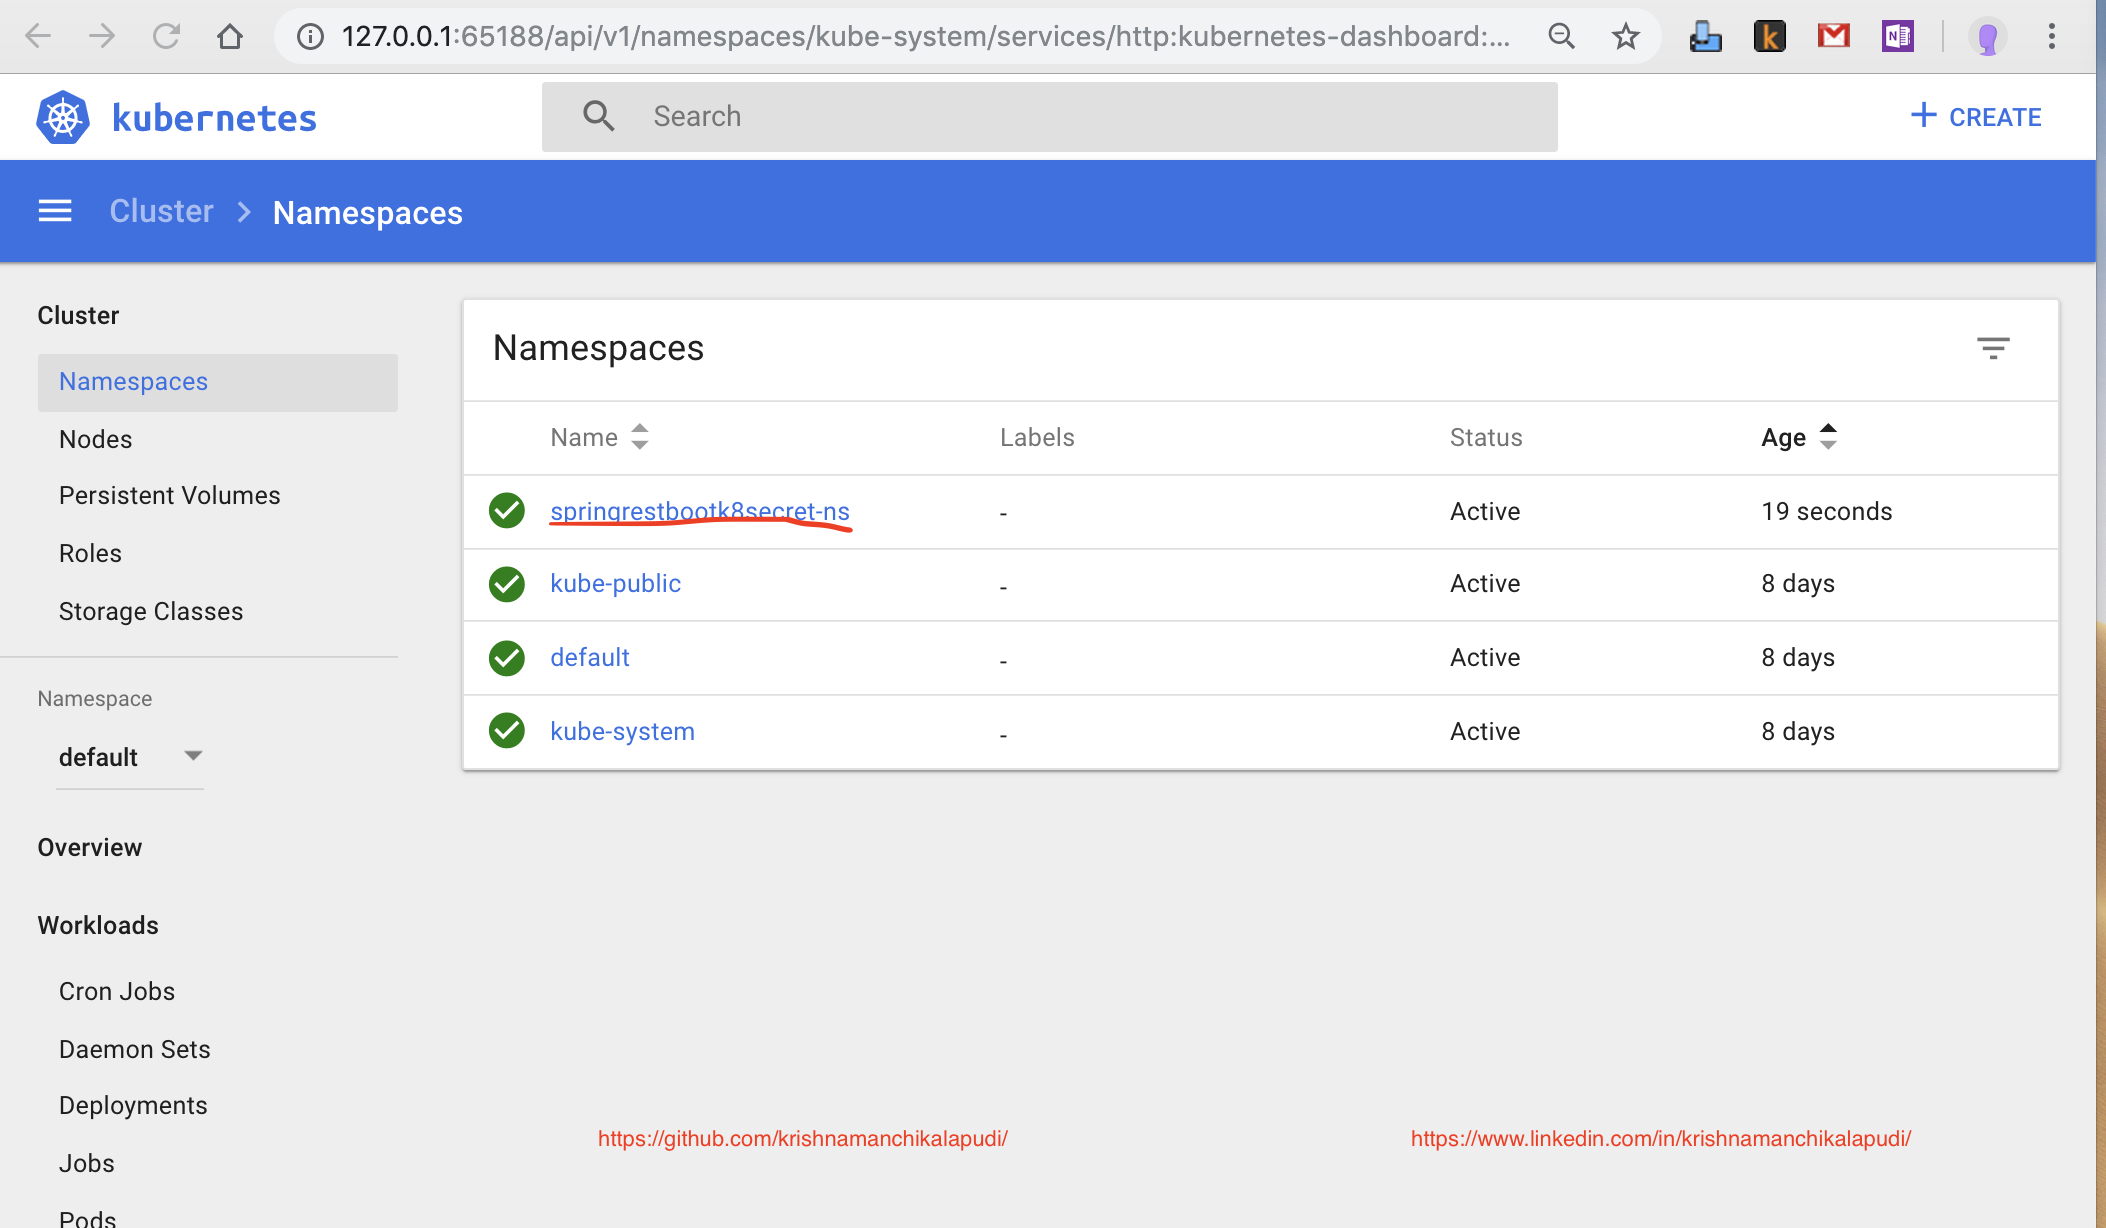
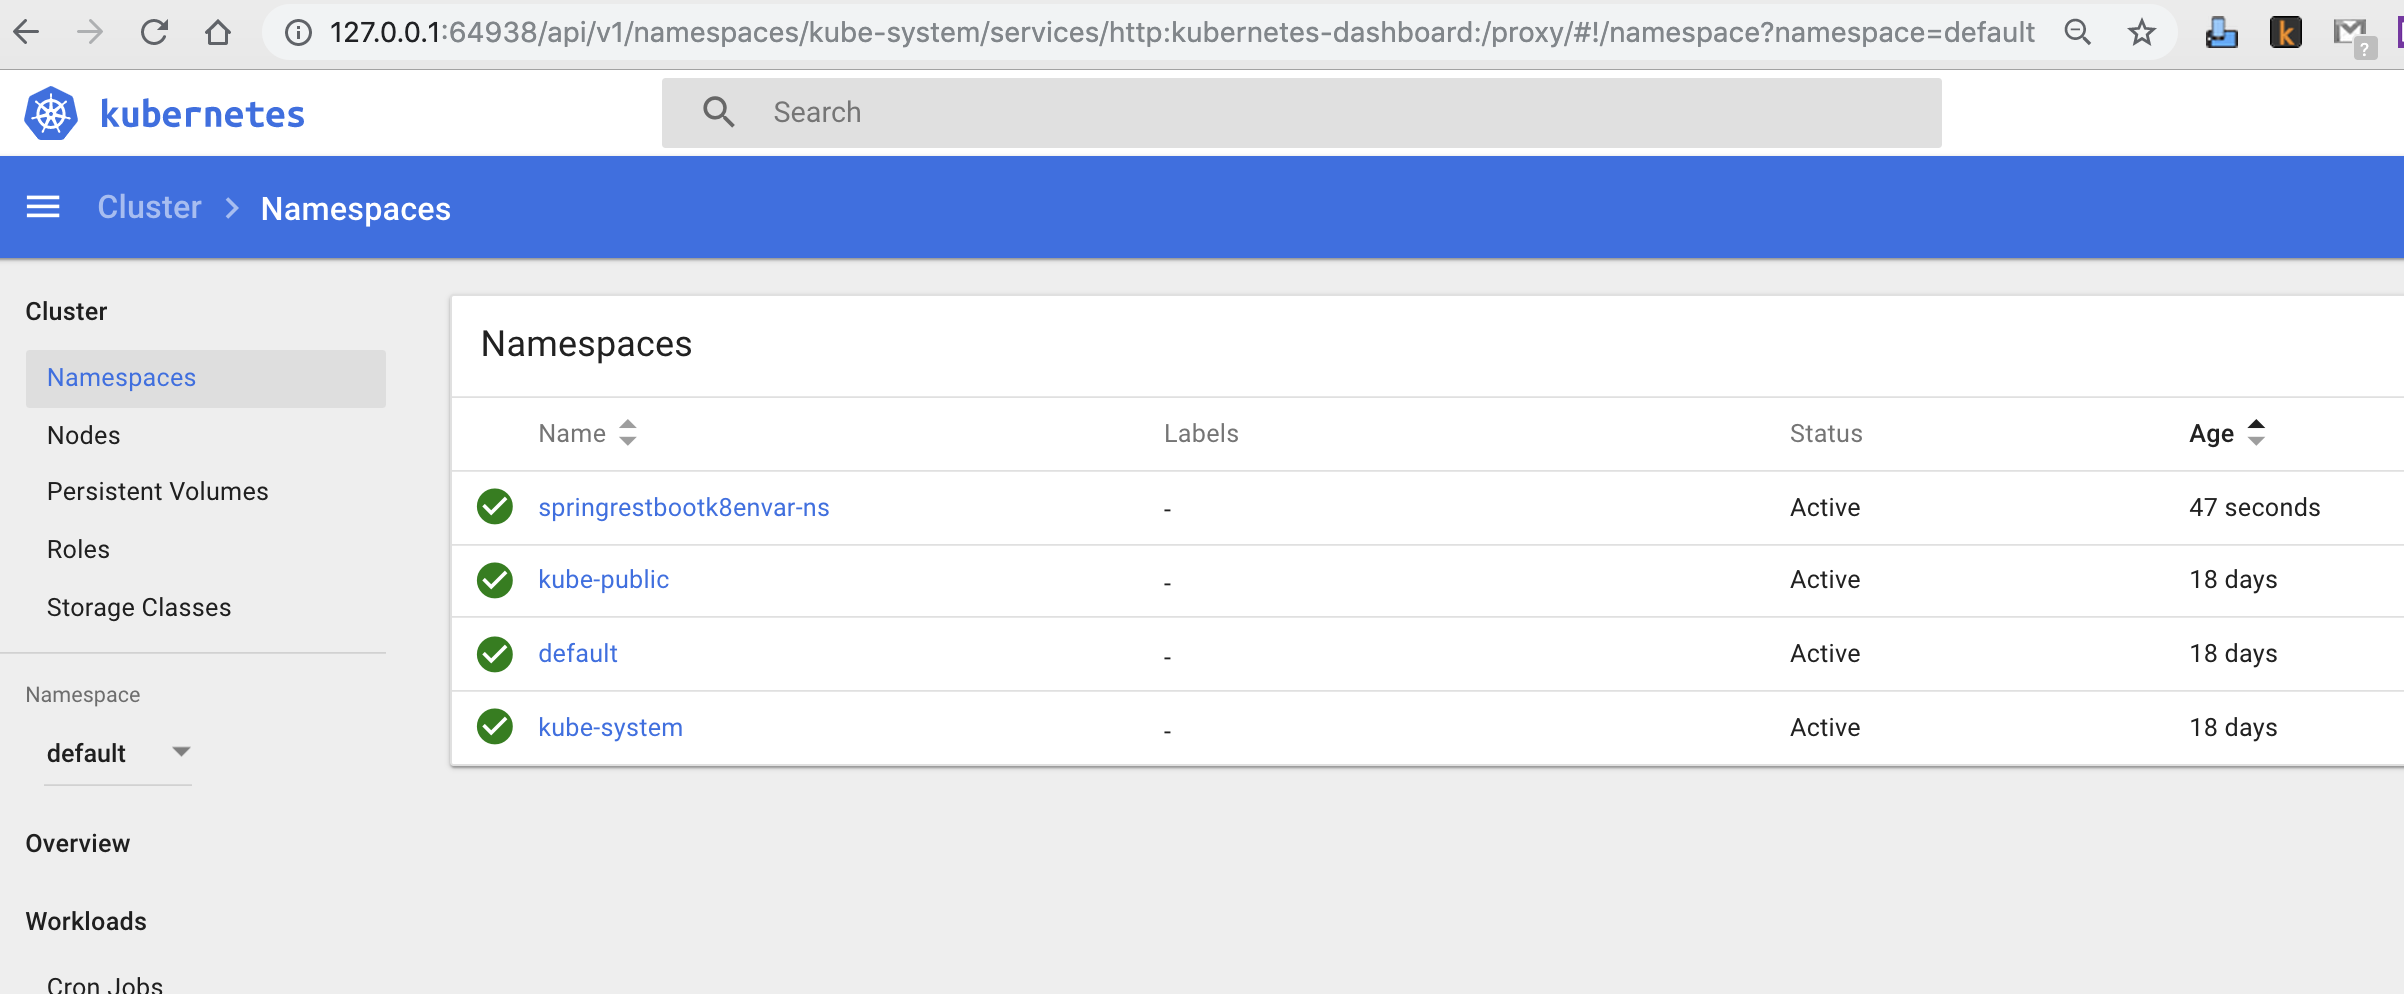
K8S images

diff --git a/SpringRestBootK8EnVar/README-K8S.MD b/SpringRestBootK8EnVar/README-K8S.MD
@@ -78,3 +78,34 @@ curl -H "content-type: application/json" localhost:8080/v1/123
 	"otherInfo":"\n----------------------------------------\nConfiguration properties\n \t\t db.url = jdbc:mysql://localhost:3306/springK8Sdb\n \t\t db.username = helloK8sName\n \t\t db.password = HelloK8sPassword\n----------------------------------------\n"
 }
 ```
+
+
+----------
+
+### Namespace
+![Namespace](./deployment/images/namespace-k8s.png)
+
+
+### Project Namespace
+![Project Namespace](./deployment/images/namespace-project.png)
+
+### Service
+![Service](./deployment/images/service.png)
+![Service Info](./deployment/images/service-info.png)
+
+### Service - Deployment
+![Deployment](./deployment/images/service-deploy.png)
+![Deployment Info](./deployment/images/service-deploy-info.png)
+
+### Service - Pods
+![Pods](./deployment/images/service-pods.png)
+![Pods Info](./deployment/images/service-pods-info.png)
+
+### Service - Replica Sets
+![Replica Sets](./deployment/images/service-replicasets.png)
+![Replica Sets Info](./deployment/images/service-replicasets-info.png)
+
+### Service - Ingress
+![Ingress](./deployment/images/service-ingresses.png)
+![Ingress Info](./deployment/images/service-ingresses-info.png)
+

diff --git a/SpringRestBootK8s/README-K8S.MD b/SpringRestBootK8s/README-K8S.MD
@@ -49,7 +49,7 @@ curl localhost:8080/v1/
 ```
 - Response: body
 ```
-Welcome to Spring Rest + Boot + K8 secret example 
+Welcome to Spring Rest + Boot + K8 environment variables example 
  
 ----------------------------------------
 Configuration properties
@@ -79,6 +79,7 @@ curl -H "content-type: application/json" localhost:8080/v1/123
 }
 ```
 
+
 ----------
 
 ### Namespace
@@ -107,7 +108,3 @@ curl -H "content-type: application/json" localhost:8080/v1/123
 ### Service - Ingress
 ![Ingress](./deployment/images/service-ingresses.png)
 ![Ingress Info](./deployment/images/service-ingresses-info.png)
-
-### Service - Secrets
-![Secrets](./deployment/images/service-secrets.png)
-![Secrets Info](./deployment/images/service-secrets-info.png)
